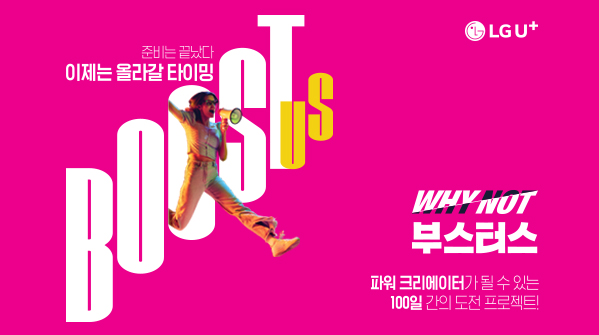
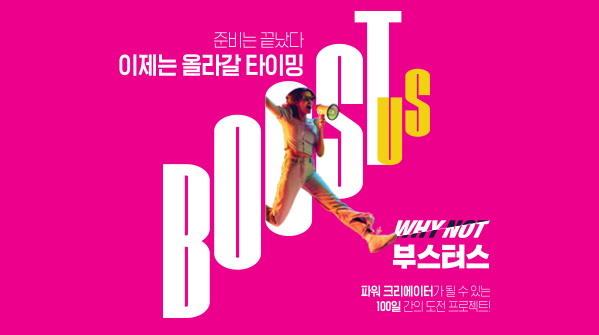
부스터스 유튜브링크, 이미지 수정

diff --git a/m/index.php b/m/index.php
@@ -344,7 +344,7 @@ include "../kcp/cfg/cert_conf.php";       // 환경설정 파일 include
         <p data-aos="fade-up" data-aos-delay="100" data-aos-offset="300"><strong>파워 크리에이터</strong>가 될 수 있는 <strong>100일간</strong>의 도전 프로젝트!</p>
     </header>
     <div class="boost-us__video">
-        <iframe src="https://www.youtube.com/embed/EOoKmVMSrlE"></iframe>
+        <iframe src="https://www.youtube.com/embed/gwIQex5yrUI"></iframe>
     </div>
     <div class="tab">
         <ul class="tab__nav" role="tablist">

diff --git a/index.php b/index.php
@@ -375,7 +375,7 @@ include "./kcp/cfg/cert_conf.php";       // 환경설정 파일 include
         <p data-aos="fade-up" data-aos-delay="100"><strong>파워 크리에이터</strong>가 될 수 있는 <strong>100일간</strong>의 도전 프로젝트!</p>
     </header>
     <div class="boost-us__video">
-        <iframe src="https://www.youtube.com/embed/EOoKmVMSrlE"></iframe>
+        <iframe src="https://www.youtube.com/embed/gwIQex5yrUI"></iframe>
     </div>
     <div class="tab">
         <ul class="tab__nav" role="tablist">
